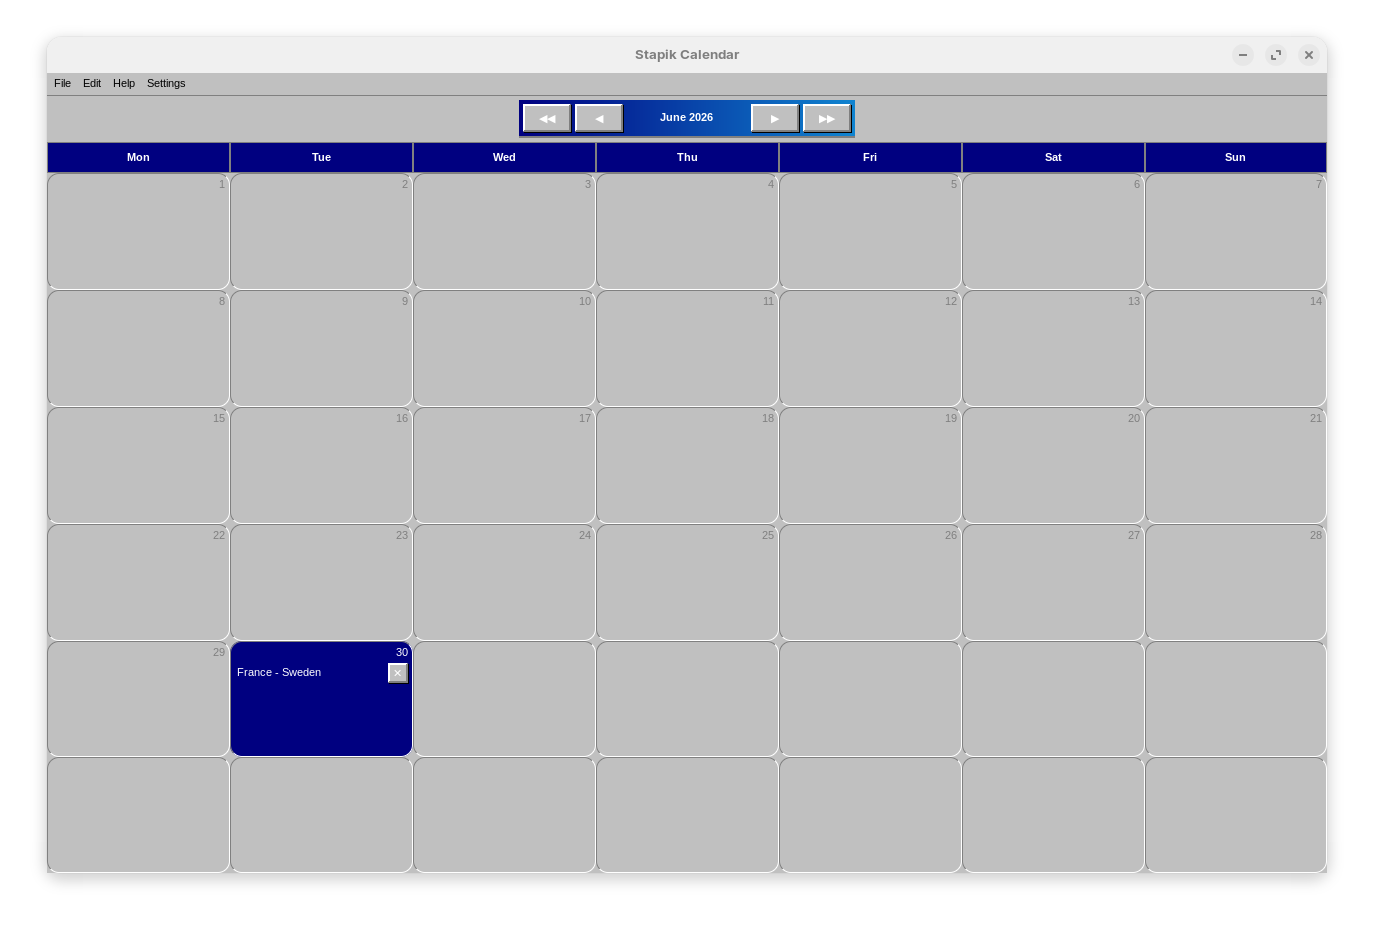
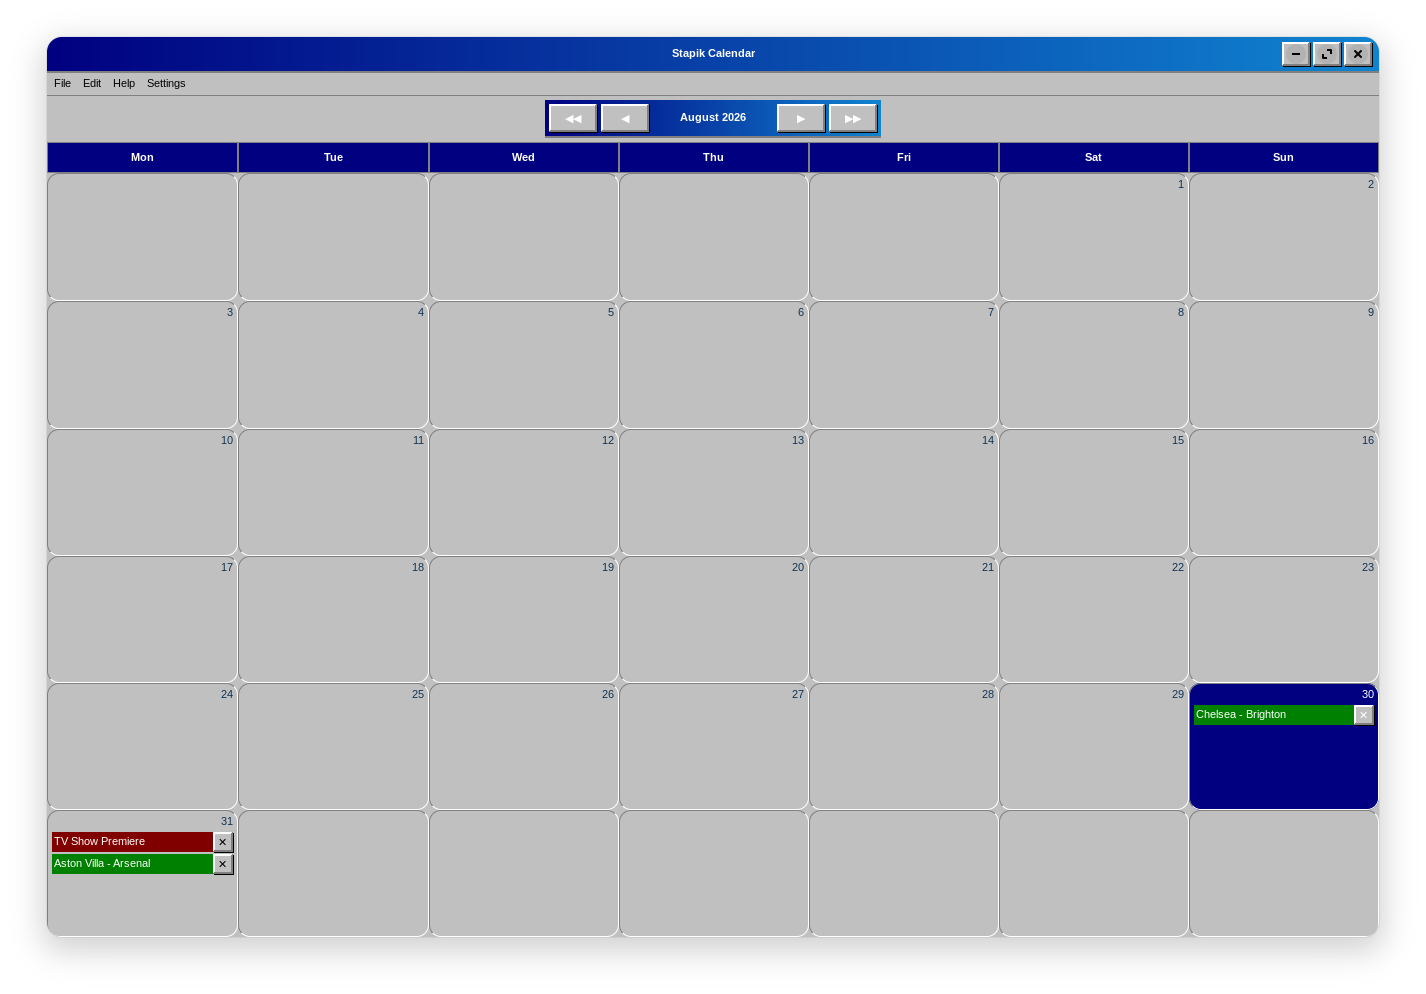
Update readme.

diff --git a/README.md b/README.md
@@ -1,19 +1,21 @@
 # Stapik Calendar
 
-A desktop calendar application for Linux, written in C++20 using GTK4/gtkmm. Styled after the retro old-school aesthetic.
+A desktop calendar application for Linux, written in C++20 using GTK4/gtkmm. Supports multiple visual themes, from a retro look to a modern one.
 
 ![Screenshot](screenshots/screenshot_1.png)
 
 ## Features
 
 - **Monthly view** - calendar grid with month and year navigation
-- **Calendar entries** - add, edit and delete entries with a name and optional link
-- **Quick add from clipboard** - right-clicking a cell automatically fetches the page title from a URL copied to the clipboard and creates an entry
-- **Undo/Redo** - full operation history for adding, editing and deleting entries
+- **Calendar entries** - add, edit and delete entries with a name, optional link and color
+- **Entry colors** - assign one of several predefined colors to an entry, either from the entry dialog or via a quick right-click popover on an existing entry
+- **Drag and drop** - drag an entry to another day to move it; hold **Ctrl** while dragging to copy it instead
+- **Quick add from clipboard** - right-clicking an empty cell automatically fetches the page title from a URL copied to the clipboard and creates an entry
+- **Undo/Redo** - full operation history for adding, editing, deleting, moving and copying entries
 - **Cloud sync** - save and load data via an external API (compatible with a self-hosted server), with automatic conflict resolution based on timestamps
 - **Multilingual UI** - Polish, English and German interface with instant switching
+- **Themes** - switch between **Classic** (retro Win98), **Modern** (light, rounded, macOS-inspired) and **Classic Pink** (Win98 layout with a vaporwave pink/purple/cyan palette) from **Settings → Theme**; the choice is remembered between launches
 - **Auto-save** - calendar data saved locally after every change
-- **Retro aesthetic** — classic look with raised buttons, blue navigation bar and grey cells
 
 ## Dependencies
 
@@ -90,33 +92,50 @@ rm ~/.local/share/applications/stapikcalendar.desktop
 rm ~/.local/share/icons/hicolor/256x256/apps/stapikcalendar.png
 ```
 
-Either way, your calendar data, cloud config and language preference remain at `~/.local/share/stapikcalendar/` — see [Data Storage](#data-storage) below if you want to remove those too.
+Either way, your calendar data, cloud config, language and theme preferences remain at `~/.local/share/stapikcalendar/` — see [Data Storage](#data-storage) below if you want to remove those too.
 
 ## Cloud Sync
 
-The app supports synchronization via a self-hosted API server. Go to **File → Connect**, enter the server URL and API key.
+The app supports synchronization via a self-hosted [Stapik Cloud](https://github.com/Stapik-Group/stapik-cloud) server (or any other with compatible api [Stapik Cloud API](https://github.com/Stapik-Group/stapik-cloud/blob/master/backend/src/main/resources/openapi/app-api.yaml)). Go to **File → Connect**, enter the server URL and the API key issued for this specific device (generated per-device from the Stapik Cloud admin panel — there is no shared or global key, and each device gets its own, independently revocable).
 
-Once connected, the app compares the local file and the cloud copy using a `lastUpdate` timestamp and keeps whichever one is newer, overwriting the other **as a whole document**. There is no field-level or entry-level merging — if both copies changed since the last sync, the older one is fully replaced.
+Once connected, the app compares the local file and the cloud copy using a timestamp and keeps whichever one is newer, overwriting the other **as a whole document**. There is no field-level or entry-level merging — if both copies changed since the last sync, the write that's based on the older cloud state loses.
+
+Unlike the original simple sync protocol, a losing write isn't necessarily gone for good. Each cloud document slot has a conflict-resolution strategy set in the admin panel:
+- **Last-write-wins with shadow copy** (the default) — the losing write is kept in the document's version history and can be restored from the admin panel.
+- **Last-write-wins** — the losing write is discarded, matching the original behavior.
 
 Data is saved locally after every change, and the app also attempts to push it to the cloud right away. If the cloud is unreachable at that moment, the change stays saved locally and the app quietly retries on the next save — no data is lost, but the cloud copy will lag behind until the next successful write. You can also trigger a sync manually from **File → Sync**.
 
-**Caution for multi-device use:** since conflict resolution is whole-document and last-write-wins, editing the calendar offline on two different machines before either one reconnects can cause one set of changes to be silently discarded. If you use the app on more than one device, make sure to sync (or at least go online) after each editing session to avoid overwriting your own changes.
+**Caution for multi-device use:** editing the calendar offline on two different machines before either one reconnects can still cause one set of changes to lose the conflict. With shadow-copy resolution (the default), that copy isn't destroyed — it's recoverable from the admin panel's version history — but it won't reappear in the app on its own; recovering it means restoring it from the admin panel and syncing again. If you use the app on more than one device, sync (or at least go online) after each editing session to avoid needing a manual restore.
 
-The API must expose two endpoints:
-- `GET /read?filename=calendar.json` — returns `{ "content": "..." }`
-- `POST /write` — accepts `{ "filename": "calendar.json", "content": "..." }`
+### API
+
+The app talks to a Stapik Cloud server (or any server implementing the same contract):
+
+- `GET /api/v1/documents/{slotKey}` — returns `{ "slotKey": "...", "content": "...", "contentHash": "...", "updatedAt": "..." }`
+- `PUT /api/v1/documents/{slotKey}` — accepts `{ "content": "...", "clientLastKnownUpdate": "..." }`, returns the same shape as `GET`. Status `200` means the write was accepted; `409` means it lost a conflict, and the response body is the current, winning document rather than an echo of what was sent.
+
+Authentication: `x-api-key` header with a per-device key from the admin panel. The old `/read`/`/write` endpoints and the single shared API key are no longer supported — existing installations need to be reconnected in **File → Connect** with a newly issued key.
 
 ## Data Storage
 
-Calendar data is stored locally at `~/.local/share/stapikcalendar/calendar.json`, wrapped with a `lastUpdate` timestamp used for cloud sync. Cloud config at `~/.local/share/stapikcalendar/config.json`. Language preference at `~/.local/share/stapikcalendar/locale.txt`.
+Calendar data is stored locally at `~/.local/share/stapikcalendar/calendar.json`, wrapped with a `lastUpdate` timestamp used for cloud sync. Each entry stores a name, an optional link and a color; files saved before entry colors were introduced are read without a `color` field and default to the standard color automatically.
+
+Cloud config at `~/.local/share/stapikcalendar/config.json`. Language preference at `~/.local/share/stapikcalendar/locale.txt`. Theme preference at `~/.local/share/stapikcalendar/theme.txt`.
+
+## Themes
+
+![Screenshot](screenshots/screenshot_2.png)
+![Screenshot](screenshots/screenshot_3.png)
 
 ## TODO
 
 - [x] General refactor
 - [x] Cloud sync with conflict resolution
 - [x] `.deb` package for easier distribution
+- [x] Entry colors — assign a color to each entry
+- [x] Drag and drop entries between cells (with copy via Ctrl)
+- [x] Theme switcher — Classic / Modern / Classic Pink
 - [ ] Export to iCal format (.ics)
-- [ ] Entry colors — assign a color to each entry
-- [ ] Drag and drop entries between cells
 - [ ] Entry search
 - [ ] Flatpak package
